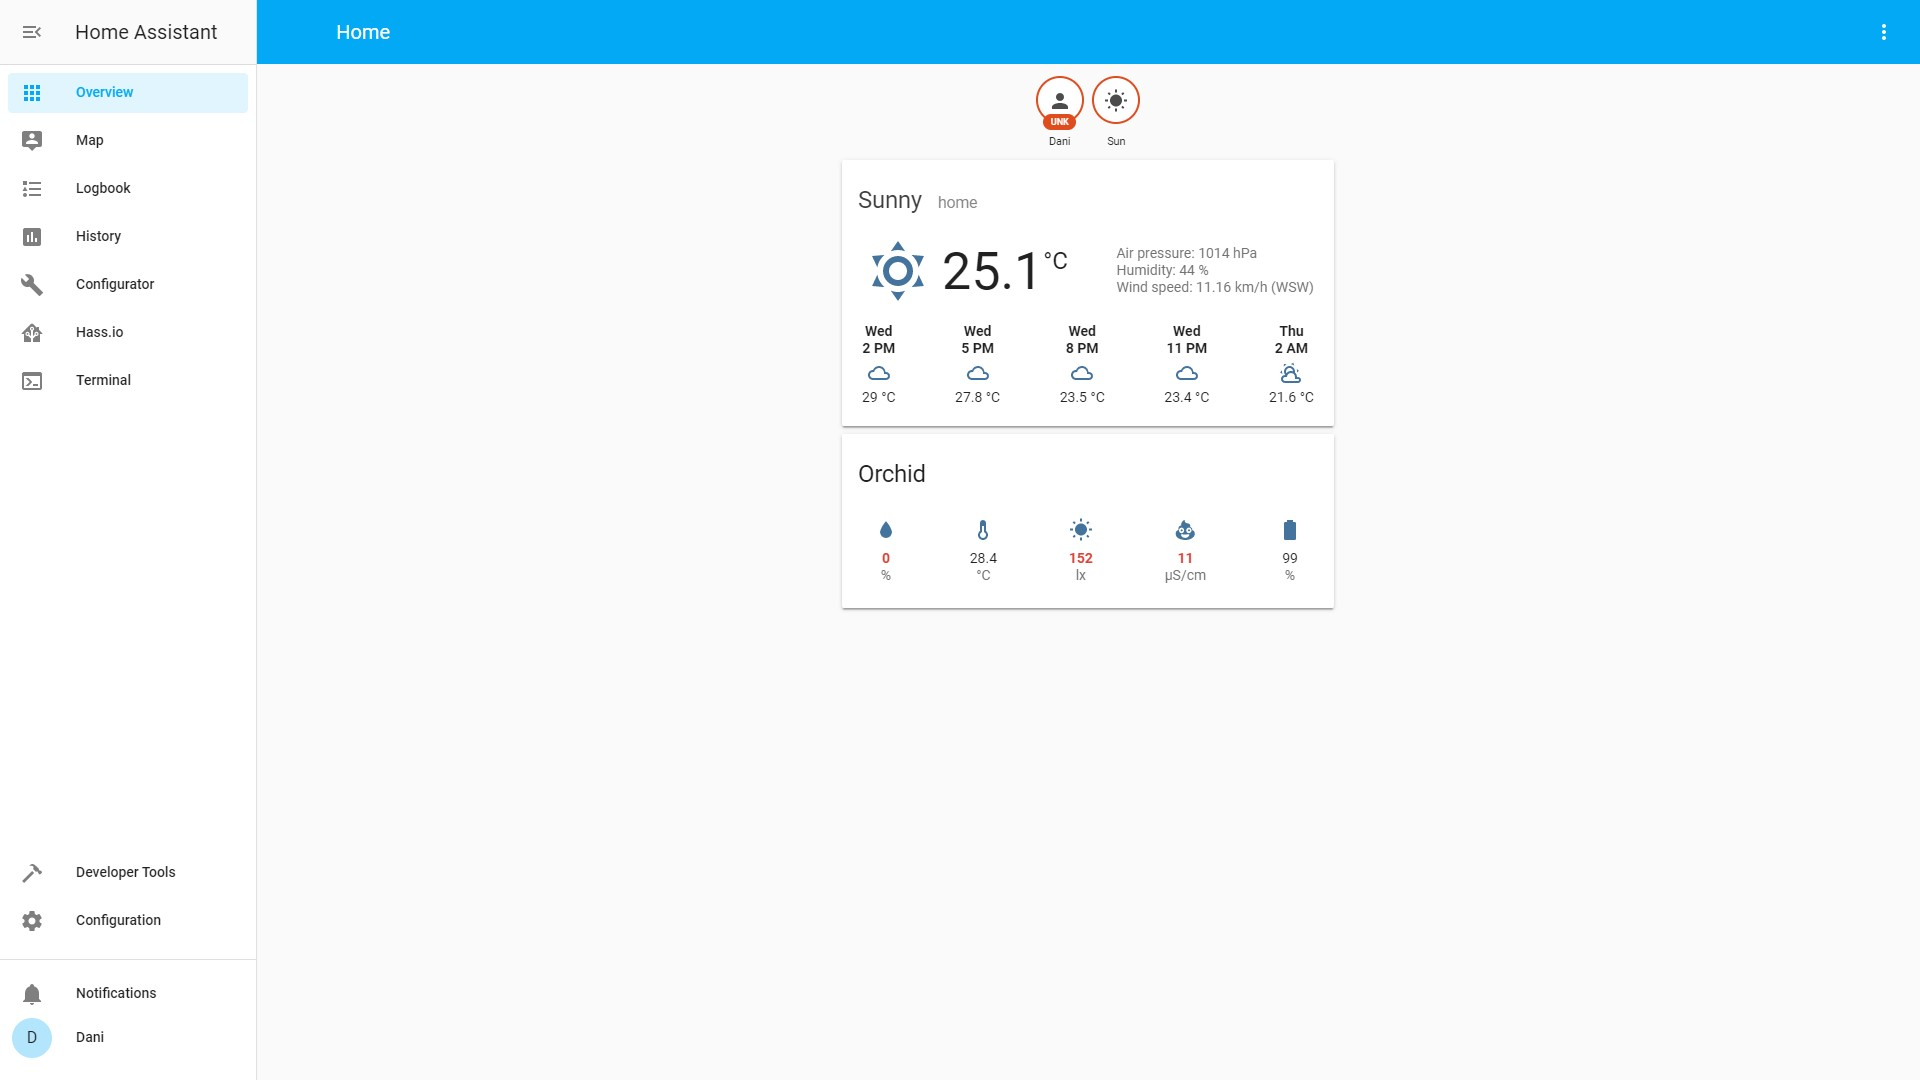
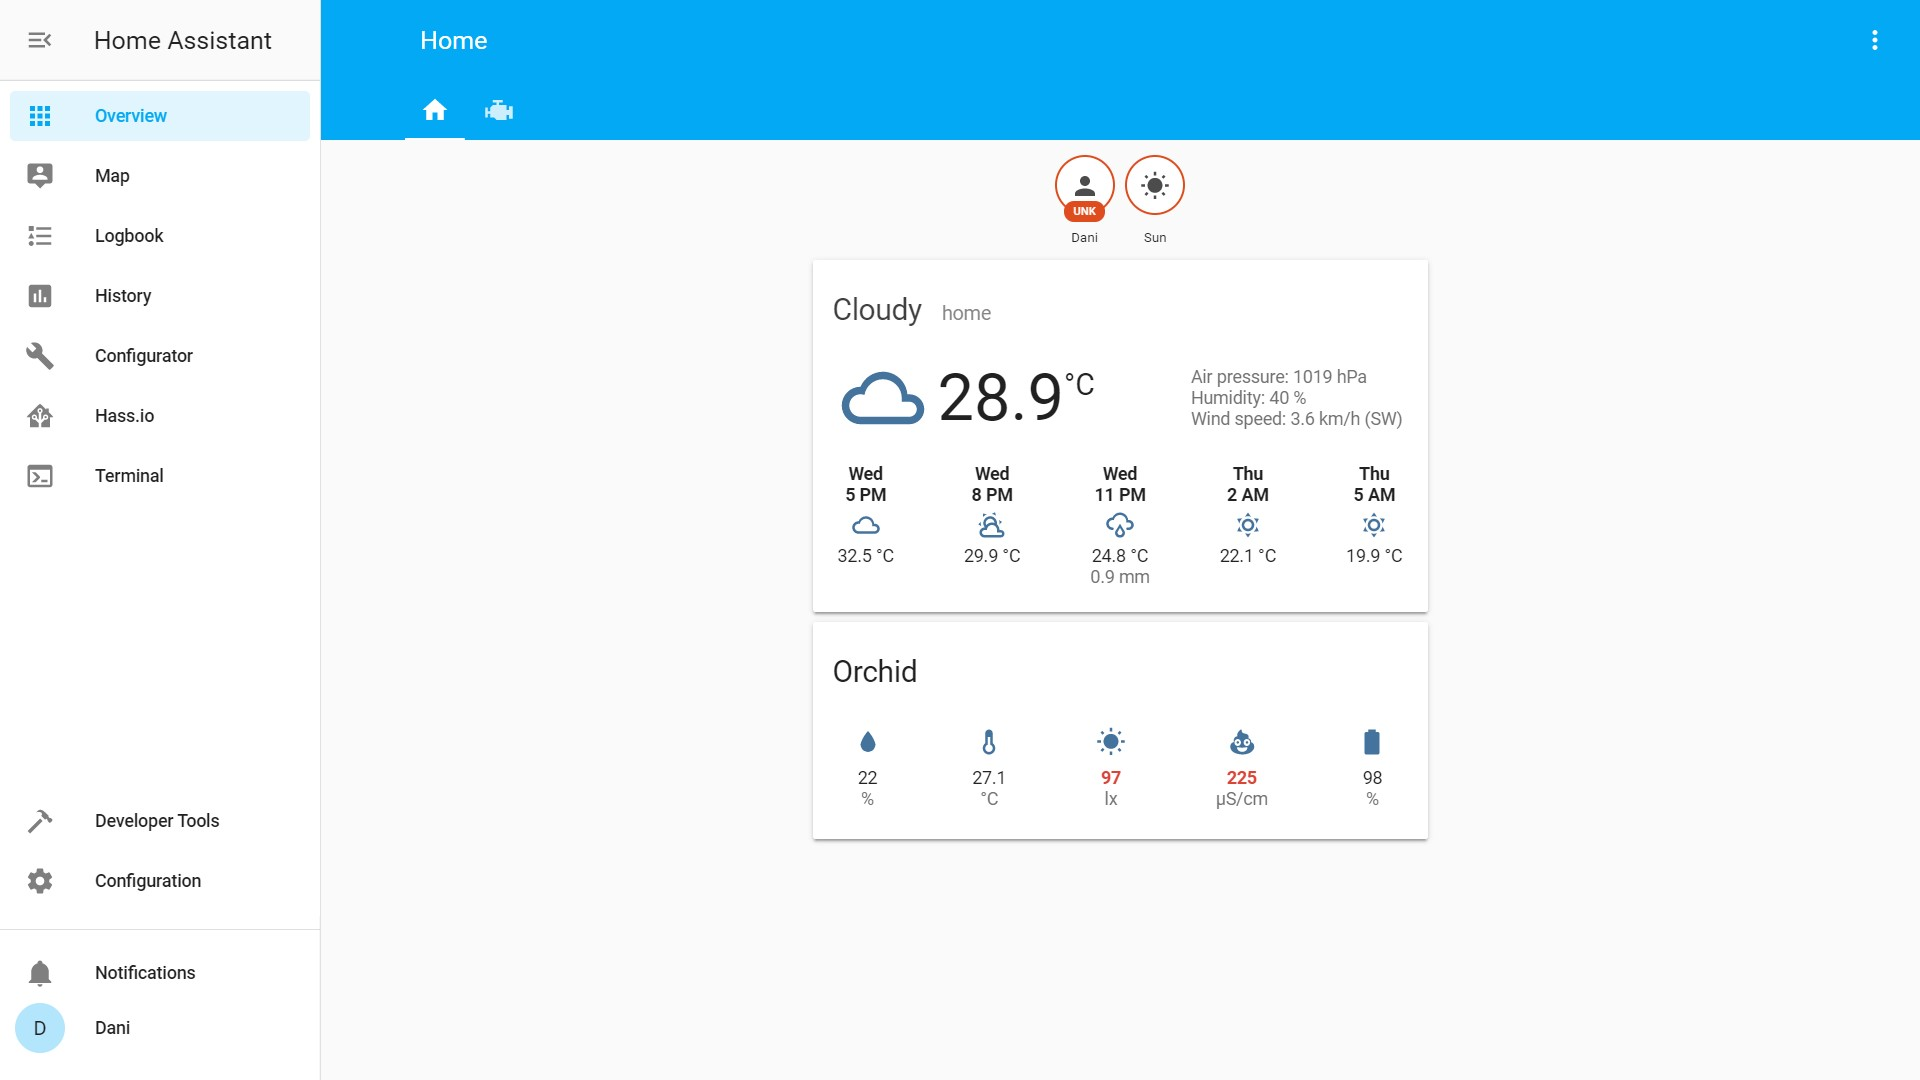
[Docs] Add 'System Monitor & Speedtest'

diff --git a/docs/README.md b/docs/README.md
@@ -37,6 +37,8 @@ Thanks to Hass.io, I can install add-ons that make my life easier.
 | --- | --- | --- | --- |
 | [OpenWeatherMap](https://openweathermap.org/) | HA Component + Card | [🔗](https://www.danielmartingonzalez.com/configura-home-assistant-editando-sus-archivos/#usando-configurator) | [🔗](https://www.danielmartingonzalez.com/configure-home-assistant-editing-its-files/#using-configurator) |
 | Mi Flora / Mi Plant | HA Components + Custom Card | [🔗](https://www.danielmartingonzalez.com/cuidando-tus-plantas-con-mi-flora-y-home-assistant/) | [🔗](https://www.danielmartingonzalez.com/caring-your-plants-with-mi-flora-and-home-assistant/) |
+| System Monitor | HA Components + Custom Card | [🔗](https://www.danielmartingonzalez.com/supervisando-un-servidor-home-assistant/) | [🔗](https://www.danielmartingonzalez.com/monitoring-a-home-assistant-server/) |
+| Speedtest | HA Components + Custom Card | [🔗](https://www.danielmartingonzalez.com/supervisando-un-servidor-home-assistant/) | [🔗](https://www.danielmartingonzalez.com/monitoring-a-home-assistant-server/) |
 
 ## Lovelace (Dashboard)
 
@@ -44,4 +46,6 @@ Here are some screenshots of my [Lovelace Dashboard](https://www.home-assistant.
 
 ### Home
 
-![Dashboard Tab 0](/docs/images/screenshot_view_00.jpg)
+![Dashboard Home Tab](/docs/images/screenshot_view_00.jpg)
+
+![Dashboard System Tab](/docs/images/screenshot_view_01.jpg)
